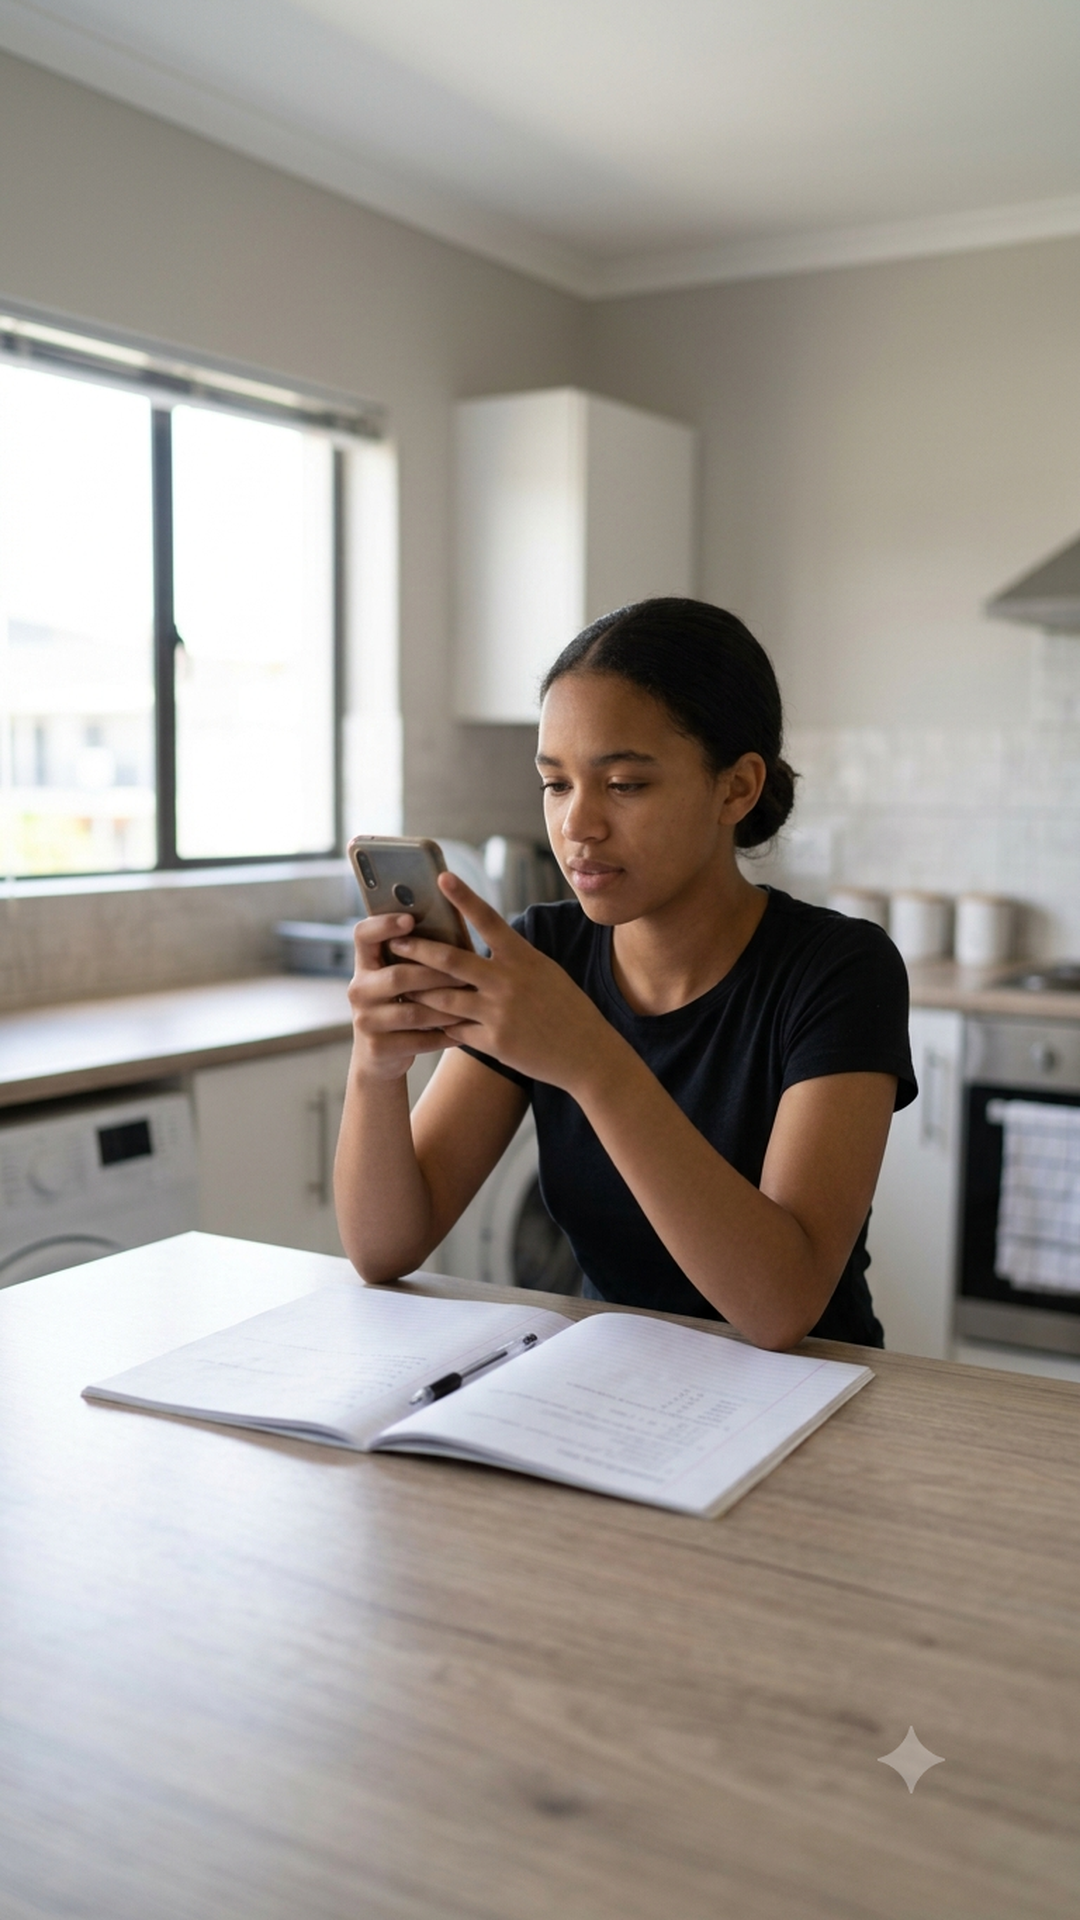
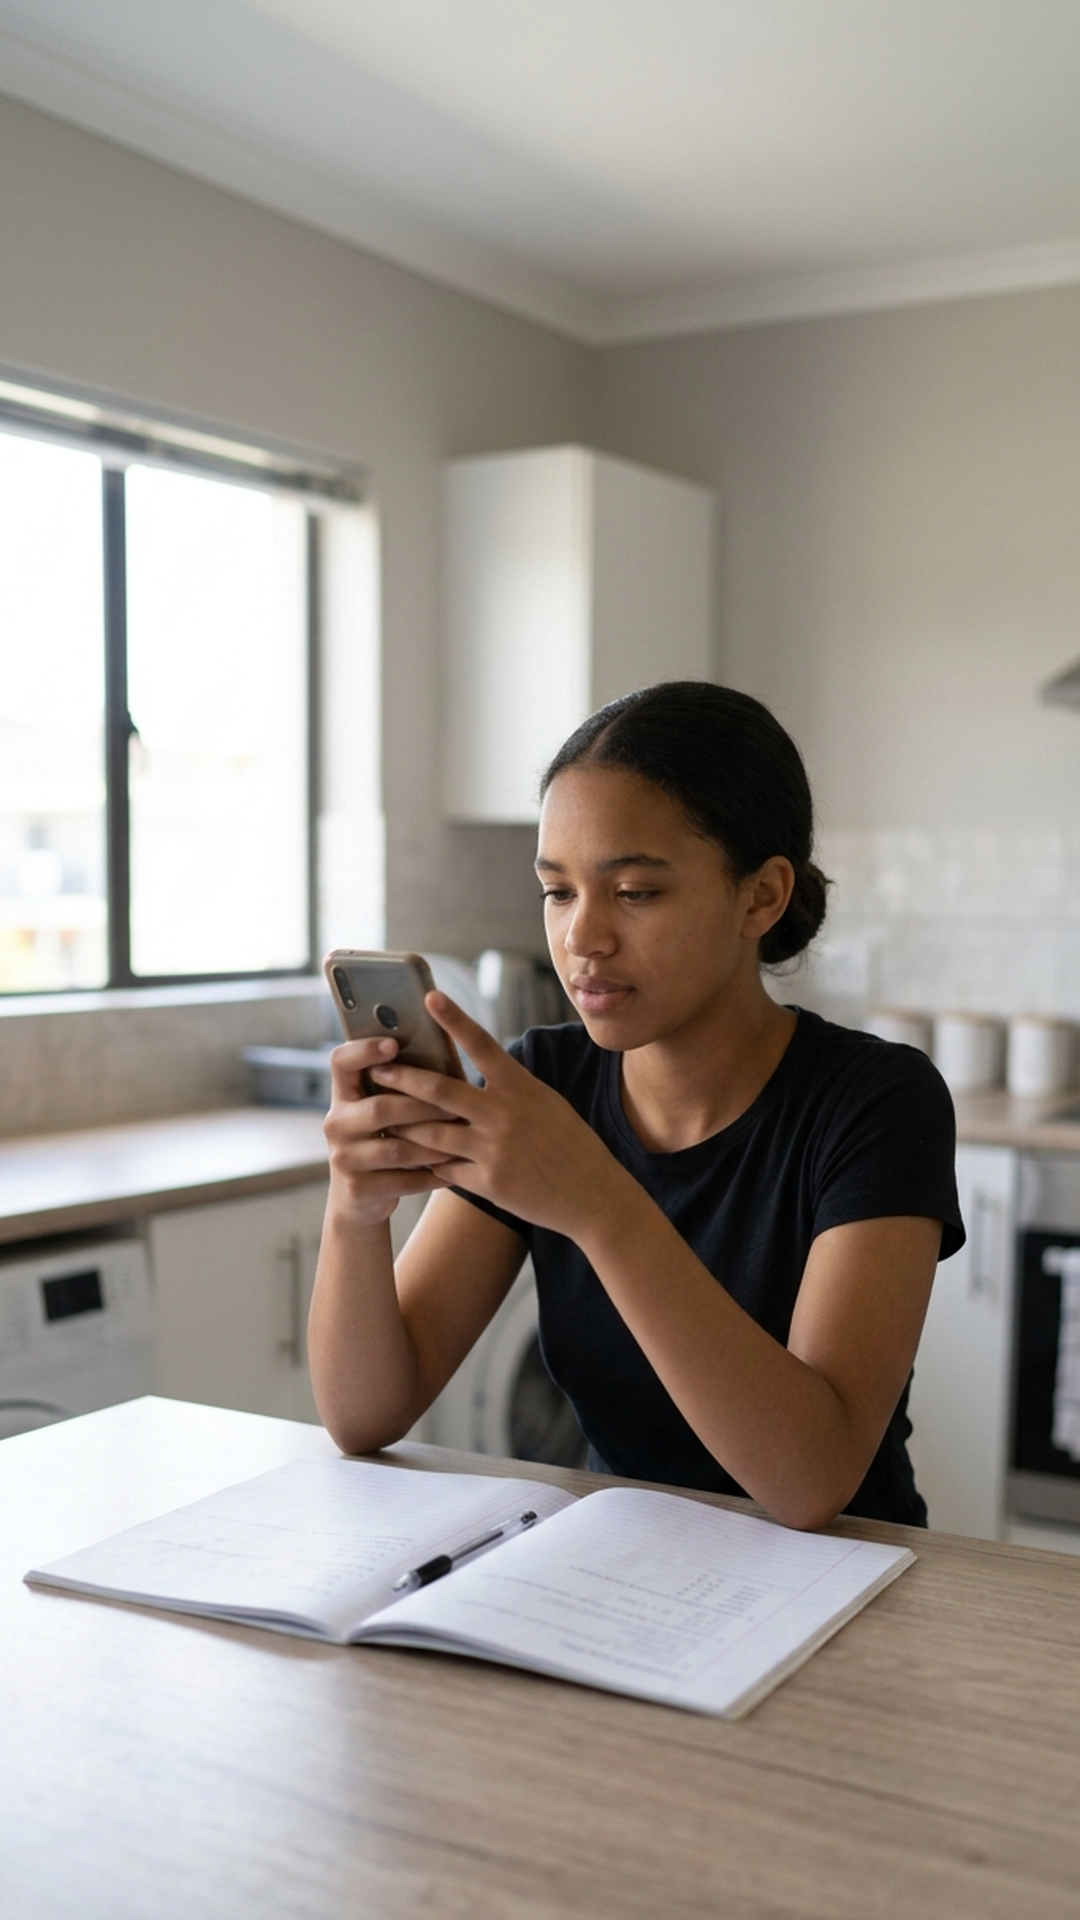
Trim the generator watermark before cropping, so renders zoom past it
Owner: the render was not zooming to avoid the mark. Correct - the trim did not
exist; I had only written a README note saying to regenerate.

Measured it rather than guessing: on the real 768x1376 source the Gemini sparkle
sits at roughly 83-87% across and 90-93% DOWN - inset from the corner, not in
it. So the cheap cut is the bottom. Trimming past ~90% of the height removes it;
excluding it from the right would have cost 17% of the width.

The trim now happens BEFORE the crop, which is what makes the rendition appear
to zoom slightly rather than leaving the mark near an edge - the whole crop is
computed against the clean region. Default bottom 12%, overridable per slide via
"watermark_trim" in the slide's _pipeline_only block (zeros disable it).

Verified on 05_grade_capture: clean region ends at y=1211, the sparkle starts at
y=1235, so it is outside the source box - and a probe of the rendered slide's
lower right shows no mark. All five student slides re-rendered. The manifest now
records watermark_trim and clean_region, and the console reports the full source
size rather than the trimmed one.

diff --git a/lessons/scripts/tutor_images.py b/lessons/scripts/tutor_images.py
@@ -75,6 +75,19 @@ ONBOARDING_CROP = {"focus_x": 0.5, "focus_y": 0.45, "face_height": None,
                    "zoom": 1.0}
 ONBOARDING_DIR = LESSONS / "onboarding"
 
+# The generator signs its work. A Gemini render carries a four-point sparkle
+# which, measured on a real 768x1376 source, sits at roughly 83-87% across and
+# 90-93% DOWN - inset from the corner, not in it. So the cheap cut is the
+# bottom: trimming past ~90% of the height removes it, where excluding it from
+# the right would cost 17% of the width.
+#
+# The trim is applied BEFORE cropping, so the rendition is computed against the
+# clean region - which is what makes the crop appear to zoom in slightly rather
+# than leaving the mark near an edge. Override per slide by putting
+# "watermark_trim": {"bottom": 0.0, "right": 0.0} in the slide JSON's
+# _pipeline_only block; zeros disable it for a source with no mark.
+WATERMARK_TRIM = {"bottom": 0.12, "right": 0.0}
+
 
 def find_source(appearance: Path):
     """The portrait to derive from: source.* by convention, else the largest
@@ -208,6 +221,21 @@ def process_onboarding(check_only=False):
             if src is None:
                 continue
             img = Image.open(src).convert("RGB")
+            # Trim the generator's watermark off before anything else, so every
+            # rendition is derived from the clean region.
+            trim = dict(WATERMARK_TRIM)
+            try:
+                cfg = json.loads(spec.read_text(encoding="utf-8"))
+                trim.update((cfg.get("_pipeline_only") or {})
+                            .get("watermark_trim") or {})
+            except (ValueError, OSError):
+                pass
+            full_w, full_h = img.size
+            safe = (0, 0,
+                    round(full_w * (1 - trim.get("right", 0))),
+                    round(full_h * (1 - trim.get("bottom", 0))))
+            if safe[2] < full_w or safe[3] < full_h:
+                img = img.crop(safe)
             w, h = img.size
             out_dir = branch / "renders" / spec.stem
             results = {}
@@ -223,7 +251,9 @@ def process_onboarding(check_only=False):
             if not check_only:
                 (out_dir / "manifest.json").write_text(json.dumps({
                     "slide": spec.stem, "branch": branch.name,
-                    "source": src.name, "source_size": [w, h],
+                    "source": src.name, "source_size": [full_w, full_h],
+                    "watermark_trim": trim,
+                    "clean_region": list(safe),
                     "source_sha1": hashlib.sha1(src.read_bytes()).hexdigest()[:12],
                     "renditions": results,
                     "_comment": [
@@ -234,7 +264,7 @@ def process_onboarding(check_only=False):
                 }, indent=2) + "\n", encoding="utf-8")
             rows.append({"subject": f"{branch.name}/{spec.stem}",
                          "status": "ok", "source": src.name,
-                         "source_size": [w, h],
+                         "source_size": [full_w, full_h],
                          "renditions": list(results)})
     return rows
 

diff --git a/lessons/onboarding/README.md b/lessons/onboarding/README.md
@@ -46,10 +46,15 @@ same mistakes:
   the only representation. A learner opening the app should be able to find
   themselves in the carousel.
 
-- **Watch for the generator's own watermark.** Gemini renders can carry a
-  sparkle mark, usually bottom-right. It survives cropping into the 9:16 slide,
-  so a marked source has to be regenerated - check the corners before saving a
-  keeper.
+- **The generator's watermark is trimmed for you.** A Gemini render carries a
+  four-point sparkle which, measured on a real 768x1376 source, sits at about
+  83-87% across and 90-93% DOWN - inset from the corner, not in it. The render
+  script trims the bottom 12% BEFORE cropping, so every rendition comes from the
+  clean region and the framing tightens slightly instead of keeping a mark near
+  the edge. Trimming the bottom is the cheap cut; excluding it from the right
+  would cost 17% of the width. A marked source no longer needs regenerating.
+  Override per slide with `"watermark_trim": {"bottom": 0, "right": 0}` in the
+  slide's `_pipeline_only` block - zeros disable it for a clean source.
 - **No two slides in a branch may photograph the same moment.** Differ on at
   least two of: setting, time of day, camera position, and how many people are
   in frame. Slides 01 and 03 first came back as the same picture - same boy,
